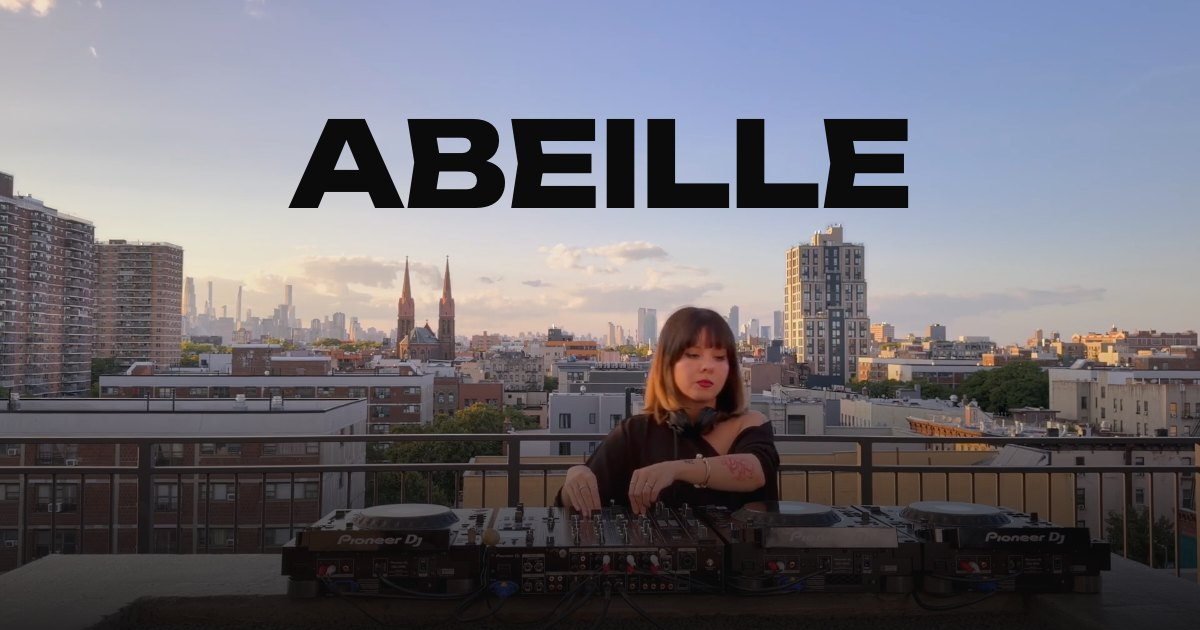
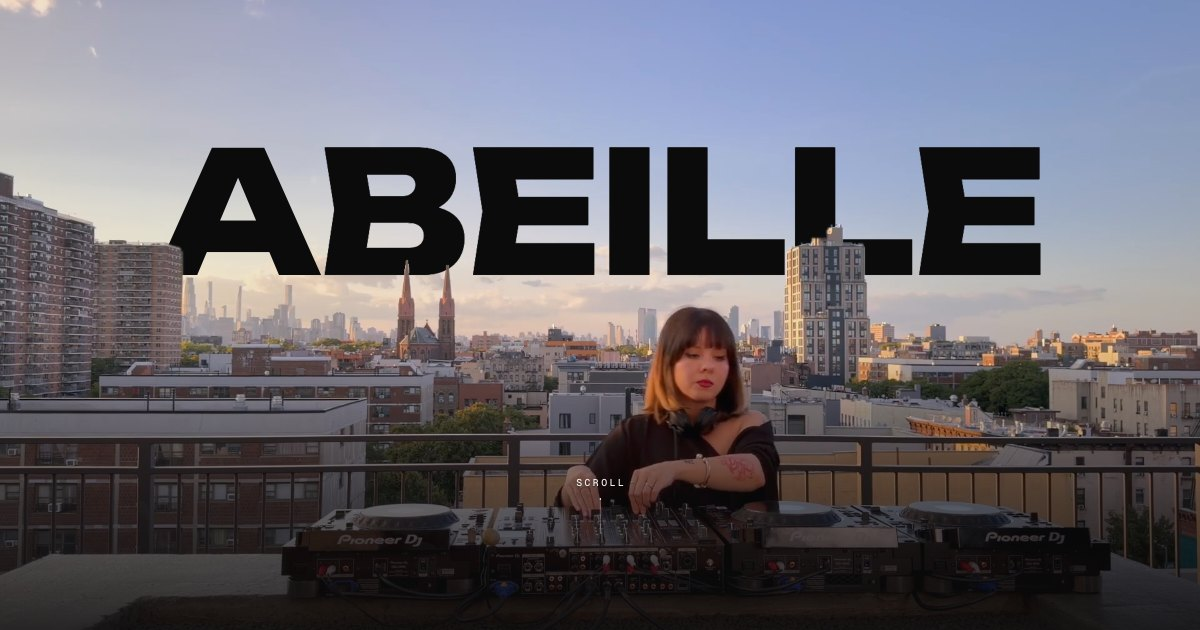
Skyline name, subway fader, email contact, tighter layout

Changed region(s): [[0.1233, 0.181, 0.8942, 0.4524], [0.4933, 0.754, 0.5242, 0.7841]]

diff --git a/index.html b/index.html
@@ -18,7 +18,7 @@
 <link rel="icon" href="data:,">
 <link rel="preconnect" href="https://fonts.googleapis.com">
 <link rel="preconnect" href="https://fonts.gstatic.com" crossorigin>
-<link href="https://fonts.googleapis.com/css2?family=Manrope:wght@400..800&family=Doto:wght@700..900&family=Unbounded:wght@700..900&family=Geist+Mono:wght@400..500&display=swap" rel="stylesheet">
+<link href="https://fonts.googleapis.com/css2?family=Manrope:wght@400..800&family=Doto:wght@700..900&family=Unbounded:wght@700..900&display=swap" rel="stylesheet">
 <link rel="stylesheet" href="scrollcraft.css">
 <style>
 :root {
@@ -27,7 +27,7 @@
   --sc-accent: #c8ff2e;  --sc-accent-ink: #0b0b0c;
   --sc-font-display: "Manrope", system-ui, sans-serif;
   --sc-font-text: "Manrope", system-ui, sans-serif;
-  --sc-font-mono: "Geist Mono", ui-monospace, monospace;
+  --sc-font-mono: "Manrope", system-ui, sans-serif;
   --ticker-h: 36px;
   --led: #ff9f2e;          /* countdown-clock amber: the ticker only */
   --bar-h: 56px;
@@ -106,29 +106,40 @@ a { color: inherit; text-underline-offset: 0.2em; text-decoration-thickness: 1px
 .btn--ghost { background: color-mix(in oklab, var(--sc-canvas) 72%, transparent); color: var(--sc-ink); box-shadow: inset 0 0 0 1px color-mix(in oklab, var(--sc-ink) 22%, transparent); }
 @media (hover: hover) and (pointer: fine) { .btn--ghost:hover { background: color-mix(in oklab, var(--sc-canvas) 88%, transparent); } }
 
-/* The map. A fader: five stops on one channel, the knob is where you are. */
+/* The map, drawn like a subway line: five stations on one lime route, and a
+   small train that rides between them as you scroll. */
 .fader {
   position: fixed; z-index: 60; left: 50%; bottom: max(14px, env(safe-area-inset-bottom));
   translate: -50% 0; width: min(560px, calc(100vw - 2 * var(--sc-gutter)));
 }
 .fader ol { list-style: none; margin: 0; padding: 0; display: grid; grid-template-columns: repeat(5, 1fr); position: relative; }
 .fader ol::before {
-  content: ""; position: absolute; left: 10%; right: 10%; top: 13px; height: 2px;
-  background: color-mix(in oklab, var(--sc-ink) 26%, transparent); border-radius: 2px;
+  content: ""; position: absolute; left: 10%; right: 10%; top: 12px; height: 5px;
+  background: var(--sc-accent); border-radius: 5px;
+  box-shadow: 0 1px 6px rgb(0 0 0 / 0.35);
 }
 .fader__knob {
-  position: absolute; top: 4px; left: 0; width: 12px; height: 20px; margin-left: -6px; border-radius: 3px;
-  background: var(--sc-accent); box-shadow: var(--sc-e2);
+  position: absolute; top: 8px; left: 0; width: 24px; height: 13px; margin-left: -12px; border-radius: 7px;
+  background: var(--sc-canvas); box-shadow: inset 0 0 0 2px var(--sc-ink), 0 1px 4px rgb(0 0 0 / 0.5);
+  z-index: 3;
   transform: translate3d(calc(var(--k, 0) * 1px), 0, 0); will-change: transform; pointer-events: none;
 }
+.fader__knob::before, .fader__knob::after {
+  content: ""; position: absolute; top: 4px; width: 4px; height: 4px; border-radius: 1px; background: var(--sc-accent);
+}
+.fader__knob::before { left: 5px; } .fader__knob::after { right: 5px; }
 .fader button {
   appearance: none; background: none; border: 0; cursor: pointer; color: var(--sc-ink-soft);
-  display: flex; flex-direction: column; align-items: center; gap: 10px; padding: 8px 0 4px; width: 100%; min-height: 44px;
-  font: 500 0.66rem/1.2 var(--sc-font-mono); letter-spacing: 0.06em; text-transform: uppercase;
-  text-shadow: 0 1px 3px rgb(0 0 0 / 0.6);
+  display: flex; flex-direction: column; align-items: center; gap: 8px; padding: 8px 0 4px; width: 100%; min-height: 44px;
+  font: 700 0.7rem/1.2 var(--sc-font-text); letter-spacing: 0.01em;
+  text-shadow: 0 1px 3px rgb(0 0 0 / 0.7);
   transition: color 160ms var(--sc-ease-out);
 }
-.fader button::before { content: ""; width: 2px; height: 8px; background: color-mix(in oklab, var(--sc-ink) 40%, transparent); }
+.fader button::before {
+  content: ""; width: 9px; height: 9px; border-radius: 50%;
+  background: var(--sc-ink); box-shadow: 0 0 0 2.5px var(--sc-canvas);
+  position: relative; z-index: 1;
+}
 .fader button[aria-current="true"] { color: var(--sc-ink); }
 @media (min-width: 861px) {
   .fader button span { opacity: 0; transition: opacity 180ms var(--sc-ease-out); }
@@ -149,14 +160,22 @@ a { color: inherit; text-underline-offset: 0.2em; text-decoration-thickness: 1px
   transform-origin: 50% 100%; will-change: transform;
 }
 .hero__name .amp { font-weight: 500; }
+/* Solid black, set down into the skyline so the towers stand in front of it. */
 .hero__name .pre { display: block; font-size: 0.56em; line-height: 0.84; margin-bottom: 0.05em; }
 .hero__scrim { position: absolute; inset: auto 0 0 0; height: 46%; background: linear-gradient(to top, rgb(11 11 12 / 0.86), rgb(11 11 12 / 0.55) 45%, transparent); }
 .hero__foot {
   position: absolute; left: var(--sc-gutter); right: var(--sc-gutter); bottom: calc(76px + env(safe-area-inset-bottom));
-  display: flex; align-items: end; justify-content: space-between; gap: var(--sc-5); pointer-events: none;
+  display: flex; align-items: center; justify-content: space-between; gap: var(--sc-5); pointer-events: none;
 }
 .hero__foot > * { pointer-events: auto; }
 .hero__sub { margin: 0; max-width: 34ch; font-size: var(--sc-t-base); line-height: 1.5; text-wrap: balance; }
+.cue { position: absolute; left: 50%; bottom: calc(96px + env(safe-area-inset-bottom)); translate: -50% 0; display: flex; flex-direction: column; align-items: center; gap: 10px; pointer-events: none; transition: opacity 300ms var(--sc-ease-out); }
+.cue__label { font: 500 0.62rem/1 var(--sc-font-mono); letter-spacing: 0.24em; text-transform: uppercase; color: var(--sc-ink); padding-left: 0.24em; text-shadow: 0 1px 4px rgb(0 0 0 / 0.5); }
+.cue__line { position: relative; width: 1px; height: 36px; background: color-mix(in oklab, var(--sc-ink) 30%, transparent); overflow: hidden; }
+.cue__line::after { content: ""; position: absolute; left: 0; top: 0; width: 1px; height: 12px; background: var(--sc-ink); animation: cue 1.8s var(--sc-ease-in-out) infinite; }
+@keyframes cue { from { transform: translateY(-12px); } to { transform: translateY(36px); } }
+.cue.is-gone { opacity: 0; }
+@media (prefers-reduced-motion: reduce) { .cue__line::after { animation: none; top: 12px; } }
 .sound { min-width: 8.5rem; justify-content: center; }
 .sound svg { width: 16px; height: 16px; }
 
@@ -246,7 +265,11 @@ form.f {
 
 /* The close: her name, two ways to reach her, nothing else. */
 .contact-scrim { position: absolute; inset: 0; background: linear-gradient(90deg, rgb(11 11 12 / 0.9) 0%, rgb(11 11 12 / 0.75) 45%, rgb(11 11 12 / 0.2) 75%, transparent 90%); }
-@media (max-width: 860px) { .contact-scrim { background: rgb(11 11 12 / 0.72); } }
+@media (max-width: 860px) {
+  .contact-scrim { background: rgb(11 11 12 / 0.72); }
+  .contact__ways a { flex-direction: column; align-items: flex-start; gap: 6px; }
+  .contact__ways .v { font-size: var(--sc-t-lg); overflow-wrap: anywhere; }
+}
 .contact { position: absolute; left: var(--sc-gutter); right: var(--sc-gutter); top: 50%; transform: translateY(-50%); max-width: 44rem; }
 .contact h2 { margin: 0; font: 800 clamp(1.8rem, 3.8vw, 3.6rem)/0.95 "Unbounded", var(--sc-font-display); letter-spacing: -0.02em; text-transform: uppercase; }
 .contact .body { margin: var(--sc-5) 0 0; color: var(--sc-ink); max-width: 44ch; }
@@ -286,6 +309,7 @@ form.f {
   .bar .btn { height: 40px; padding-inline: 0.9rem; font-size: 0.84rem; }
   .bar .bar__sound { width: 40px; padding: 0; }
   .hero__sub { font-size: var(--sc-t-sm); max-width: 30ch; }
+  .cue { left: auto; right: var(--sc-gutter); translate: none; bottom: calc(150px + env(safe-area-inset-bottom)); }
   .fader button span { display: none; }
   .fader button[aria-current="true"] span { display: inline; position: absolute; top: -14px; white-space: nowrap; }
   .fader button { position: relative; }
@@ -296,7 +320,7 @@ form.f {
   .name--r { bottom: 88px; }
   .name h2 { font-size: clamp(2.2rem, 11vw, 3.6rem); }
   .name p { font-size: var(--sc-t-sm); }
-  .peak-scrim { background: linear-gradient(to bottom, rgb(11 11 12 / 0.7), transparent 18%), linear-gradient(to top, rgb(11 11 12 / 0.95) 0%, rgb(11 11 12 / 0.82) 30%, rgb(11 11 12 / 0.4) 48%, transparent 60%); }
+  .peak-scrim { background: linear-gradient(to bottom, rgb(11 11 12 / 0.7), transparent 18%), linear-gradient(to top, rgb(11 11 12 / 0.96) 0%, rgb(11 11 12 / 0.9) 34%, rgb(11 11 12 / 0.55) 52%, transparent 68%); }
   .rooms ul { font-size: clamp(2.2rem, 11vw, 3rem); }
   .listen { right: var(--sc-gutter); top: calc(var(--ticker-h) + var(--bar-h) + 1rem); }
   .listen__head { font-size: var(--sc-t-lg); }
@@ -304,7 +328,7 @@ form.f {
   .listen__links { margin-top: var(--sc-4); }
   .listen__links a { font-size: var(--sc-t-base); }
   .gear { right: var(--sc-gutter); bottom: 90px; max-width: none; }
-  .side-scrim { background: linear-gradient(to bottom, rgb(11 11 12 / 0.85), rgb(11 11 12 / 0.3) 50%, rgb(11 11 12 / 0.88)); }
+  .side-scrim { background: linear-gradient(to bottom, rgb(11 11 12 / 0.93) 0%, rgb(11 11 12 / 0.88) 52%, rgb(11 11 12 / 0.4) 72%, transparent 88%); }
   .dusk-line { right: var(--sc-gutter); }
   .book { grid-template-columns: 1fr; gap: var(--sc-4); align-content: start; top: calc(var(--ticker-h) + var(--bar-h) + 0.5rem); bottom: 64px; overflow-y: auto; overscroll-behavior: contain; }
   .book__lede h2 { font-size: var(--sc-t-2xl); }
@@ -352,7 +376,7 @@ form.f {
       <img class="sc-world__poster" src="assets/gold.jpg" alt="" decoding="async">
       <video data-sc-src="assets/gold.mp4" data-sc-src-mobile="assets/gold-m.mp4" muted playsinline></video>
     </div>
-    <div data-sc-segment data-sc-w="1.3" data-sc-waypoint="Dusk">
+    <div data-sc-segment data-sc-w="0.85" data-sc-waypoint="Dusk">
       <img class="sc-world__poster" src="assets/dusk.jpg" alt="" decoding="async">
       <video data-sc-src="assets/dusk.mp4" data-sc-src-mobile="assets/dusk-m.mp4" muted playsinline></video>
     </div>
@@ -380,8 +404,9 @@ form.f {
     <h1 class="hero__name" id="heroName"><span class="l">Abeille</span></h1>
     <canvas id="skyline" aria-hidden="true"></canvas>
     <div class="hero__scrim"></div>
+    <div class="cue" id="cue" aria-hidden="true"><span class="cue__label">Scroll</span><span class="cue__line"></span></div>
     <div class="hero__foot">
-      <p class="hero__sub">Istanbul-born, New York-based DJ playing groovy, hypnotic techno, left-field house, ambient and old-school breakbeat.</p>
+      <p class="hero__sub">Istanbul-born, New York-based DJ.</p>
       <button class="btn btn--ghost sound" id="sound" type="button" aria-pressed="false">
         <svg viewBox="0 0 24 24" fill="none" stroke="currentColor" stroke-width="2" stroke-linecap="round" stroke-linejoin="round" aria-hidden="true"><path d="M11 5 6 9H2v6h4l5 4V5z"/><path id="soundWave" d="M15.5 8.5a5 5 0 0 1 0 7M19 5a10 10 0 0 1 0 14" opacity="0.35"/></svg>
         <span id="soundLabel">Sound on</span>
@@ -392,7 +417,7 @@ form.f {
 
   <div data-sc-world-copy>
 
-    <div class="fill" data-sc-copy data-sc-window="0.335 0.595 0.16 0.14">
+    <div class="fill" data-sc-copy data-sc-window="0.285 0.565 0.16 0.14">
       <div class="peak-scrim"></div>
       <div class="name name--solo">
         <h2><a class="name__link" href="abeille.html">Abeille<span class="rule"></span></a></h2>
@@ -401,7 +426,7 @@ form.f {
       </div>
     </div>
 
-    <div class="fill" data-sc-copy data-sc-window="0.61 0.835 0.2 0.18">
+    <div class="fill" data-sc-copy data-sc-window="0.585 0.815 0.2 0.18">
       <div class="side-scrim"></div>
       <div class="listen">
         <p class="kicker">Listen</p>
@@ -415,12 +440,12 @@ form.f {
       </div>
     </div>
 
-    <div class="fill" data-sc-copy data-sc-window="0.85 1 0.3 0" id="book">
+    <div class="fill" data-sc-copy data-sc-window="0.83 1 0.3 0" id="book">
       <div class="contact-scrim"></div>
       <div class="contact">
         <h2>Contact me.</h2>
         <ul class="contact__ways">
-          <li id="phoneWay" hidden><a id="phoneLink" href="#"><span class="k">Call or text</span><span class="v" id="phoneText"></span></a></li>
+          <li><a href="mailto:melissesser@gmail.com?subject=Booking%20inquiry"><span class="k">Email</span><span class="v">melissesser@gmail.com</span></a></li>
           <li><a href="https://ig.me/m/abeille____" target="_blank" rel="noopener"><span class="k">Instagram</span><span class="v">@abeille____</span></a></li>
         </ul>
         <p class="contact__credit">Rooftop footage: _nevs tv. Club footage: Below Grūnd. Photographs: @ceninvoncatlien2, @erikpel and @donxulio_.</p>
@@ -455,8 +480,6 @@ form.f {
      drops off by itself and the ticker goes back to where she has played. */
   var NEXT_DATES = [{ day: '2026-11-10', where: 'Bossa Nova Civic Club, Brooklyn' }];
   var PLAYED = ['Below Grūnd', 'Şahika Istanbul', 'Synctika Brooklyn', '_nevs tv rooftop', 'UNCURED TV', 'Subtle Radio', 'Noh Radio', 'Root Radio', 'Feel Groove Radio', 'The Black Room Radio', 'Radio Analogique'];
-  /* Her number, as she wants it shown (e.g. '(917) 555-0123'). Empty = hidden. */
-  var PHONE = '(941) 960-5347';
 
   if ('scrollRestoration' in history) history.scrollRestoration = 'manual';
   var reduce = matchMedia('(prefers-reduced-motion: reduce)').matches;
@@ -474,11 +497,11 @@ form.f {
   if (upcoming.length) {
     items = upcoming.map(function (d) {
       var t = new Date(d.day + 'T12:00:00');
-      return '<span><i class="bullet" aria-hidden="true">L</i><b>Upcoming</b> ' + MON[t.getMonth()] + ' ' + t.getDate() + ' · ' + d.where + '</span>';
+      return '<span><b>Upcoming</b> ' + MON[t.getMonth()] + ' ' + t.getDate() + ' · ' + d.where + '</span>';
     });
     while (items.length < 4) items = items.concat(items);   // one show still fills the strip
   } else {
-    items = PLAYED.map(function (p) { return '<span><i class="bullet" aria-hidden="true">L</i><b>Played</b> ' + p + '</span>'; });
+    items = PLAYED.map(function (p) { return '<span><b>Played</b> ' + p + '</span>'; });
   }
   run.innerHTML = items.join('');
   var twin = run.cloneNode(true); twin.setAttribute('aria-hidden', 'true'); twin.removeAttribute('id');
@@ -502,8 +525,9 @@ form.f {
   // so the picture is sharp instead of a small wide file blown up.
   var FULL_W = 1920, CROP_X = small.matches ? 656 : 0;
   var SRC_W = small.matches ? 608 : 1920, SRC_H = 1080, BAND_TOP = 300, BAND_BOT = 528;
-  var NAME_SCALE = 0.7;   // the name sits smaller than the full sky band
-  var NAME_BOTTOM = 385;  // source-pixel line the name sits on: clear of her head, still behind the towers
+  var NAME_SCALE = 1.0;
+  var NAME_SHIFT = 0;     // source px, one-line layout only
+  var NAME_BOTTOM = 498;  // source-pixel line the name sits on: clear of her head, still behind the towers
   // The hero is gone by 0.62 of the first leg, in whole-page progress.
   var HERO_END = 0.62 * W.segs[0].w / W.total;
   var heroOp = 1, soundOn = false, rect = { x: 0, y: 0, w: 0, h: 0, s: 1 };
@@ -529,6 +553,10 @@ form.f {
     });
     if (bw > vw * 0.94) { fs = fs * vw * 0.94 / bw; nameEl.style.fontSize = fs + 'px'; }
     nameEl.style.top = (rect.y + NAME_BOTTOM * s - nameEl.offsetHeight) + 'px';
+    // On one line, nudge left so the tall tower covers the edge of the last E,
+    // not the second L: the name stays readable and still sits behind the city.
+    var shift = twoLines || small.matches ? 0 : NAME_SHIFT * s;
+    nameEl.style.left = shift + 'px'; nameEl.style.right = (-shift) + 'px';
     var ms = (FULL_W * s) + 'px ' + rect.h + 'px', mp = (rect.x - CROP_X * s) + 'px ' + rect.y + 'px';
     sky.style.webkitMaskSize = sky.style.maskSize = ms;
     sky.style.webkitMaskPosition = sky.style.maskPosition = mp;
@@ -578,7 +606,7 @@ form.f {
   var melisA = document.getElementById('melisAudio');
   var clubA = document.getElementById('clubAudio');
   var actx = null, gM = null, gR = null;
-  var HANDOFF = 0.318;    // page progress where the Below Grūnd footage arrives: that set takes over
+  var HANDOFF = 0.268;    // page progress where the Below Grūnd footage arrives: that set takes over
   function mixFor(pr) {
     var club = pr >= HANDOFF;
     return { m: club ? 0 : 1, r: club ? (pr > 0.86 ? 0.7 : 1) : 0, club: club };
@@ -684,6 +712,7 @@ form.f {
 
   /* --------------------------------------------------------------- loop --- */
   var markEl = document.querySelector('.mark');
+  var cueEl = document.getElementById('cue');
   function frame(now) {
     var dt = Math.min(64, now - lastT); lastT = now;
     var y = scrollY; vel = vel * 0.85 + (y - lastY) * 0.15; lastY = y;
@@ -711,6 +740,7 @@ form.f {
     }
     markEl.style.setProperty('--bar-ink', heroOp > 0.5 ? 'var(--sc-accent-ink)' : 'var(--sc-ink)');
     updateLean();
+    cueEl.classList.toggle('is-gone', scrollY > 24);
 
 
     if (stops.length) {
@@ -727,15 +757,6 @@ form.f {
   if (document.fonts && document.fonts.ready) document.fonts.ready.then(function () { dispatchEvent(new Event('resize')); });
   onResize();
   requestAnimationFrame(frame);
-
-  /* ------------------------------------------------------------ contact --
-     One card, two ways to reach her. The phone row stays hidden until PHONE
-     is filled in, so the page never shows a placeholder number.            */
-  if (PHONE) {
-    document.getElementById('phoneText').textContent = PHONE;
-    document.getElementById('phoneLink').href = 'tel:+1' + PHONE.replace(/[^0-9]/g, '');
-    document.getElementById('phoneWay').hidden = false;
-  }
 
   // Arriving from her page (index.html#contact): land straight on the card.
   if (location.hash === '#contact') {

diff --git a/abeille.html b/abeille.html
@@ -17,7 +17,7 @@
 <link rel="icon" href="data:,">
 <link rel="preconnect" href="https://fonts.googleapis.com">
 <link rel="preconnect" href="https://fonts.gstatic.com" crossorigin>
-<link href="https://fonts.googleapis.com/css2?family=Manrope:wght@400..800&family=Doto:wght@700..900&family=Unbounded:wght@700..900&family=Geist+Mono:wght@400..500&display=swap" rel="stylesheet">
+<link href="https://fonts.googleapis.com/css2?family=Manrope:wght@400..800&family=Doto:wght@700..900&family=Unbounded:wght@700..900&display=swap" rel="stylesheet">
 <link rel="stylesheet" href="scrollcraft.css">
 <link rel="stylesheet" href="profile.css">
 </head>
@@ -72,7 +72,7 @@
   </section>
 
   <section class="p-sec p-close" aria-labelledby="closeHead">
-    <h2 id="closeHead">Book Abeille.</h2>
+    <h2 id="closeHead">Contact me.</h2>
     
     <div class="row">
       <a class="btn" href="index.html#contact">Contact me</a>
@@ -91,10 +91,10 @@
   var upcoming = NEXT_DATES.filter(function (d) { return new Date(d.day + 'T23:59:59') >= startOfToday; });
   var items;
   if (upcoming.length) {
-    items = upcoming.map(function (d) { var t = new Date(d.day + 'T12:00:00'); return '<span><i class="bullet" aria-hidden="true">L</i><b>Upcoming</b> ' + MON[t.getMonth()] + ' ' + t.getDate() + ' · ' + d.where + '</span>'; });
+    items = upcoming.map(function (d) { var t = new Date(d.day + 'T12:00:00'); return '<span><b>Upcoming</b> ' + MON[t.getMonth()] + ' ' + t.getDate() + ' · ' + d.where + '</span>'; });
     while (items.length < 4) items = items.concat(items);
   } else {
-    items = PLAYED.map(function (p) { return '<span><i class="bullet" aria-hidden="true">L</i><b>Played</b> ' + p + '</span>'; });
+    items = PLAYED.map(function (p) { return '<span><b>Played</b> ' + p + '</span>'; });
   }
   var run = document.getElementById('tickerRun');
   run.innerHTML = items.join('');

diff --git a/profile.css b/profile.css
@@ -7,7 +7,7 @@
   --sc-accent: #c8ff2e;  --sc-accent-ink: #0b0b0c;
   --sc-font-display: "Manrope", system-ui, sans-serif;
   --sc-font-text: "Manrope", system-ui, sans-serif;
-  --sc-font-mono: "Geist Mono", ui-monospace, monospace;
+  --sc-font-mono: "Manrope", system-ui, sans-serif;
   --ticker-h: 36px;
   --bar-h: 56px;
   --led: #ff9f2e;
